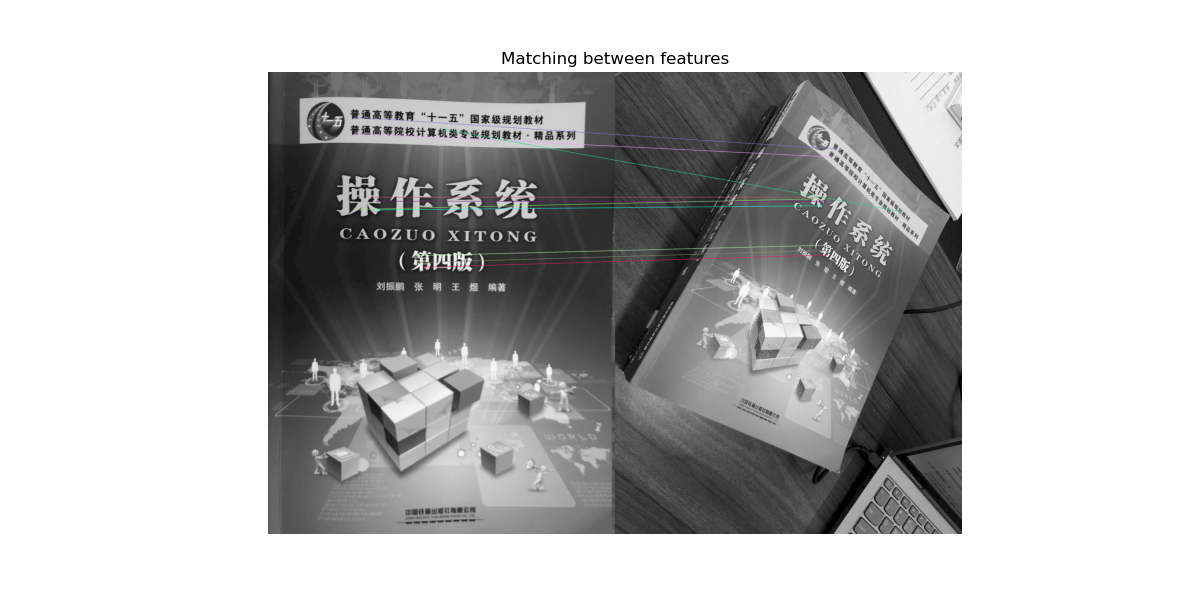
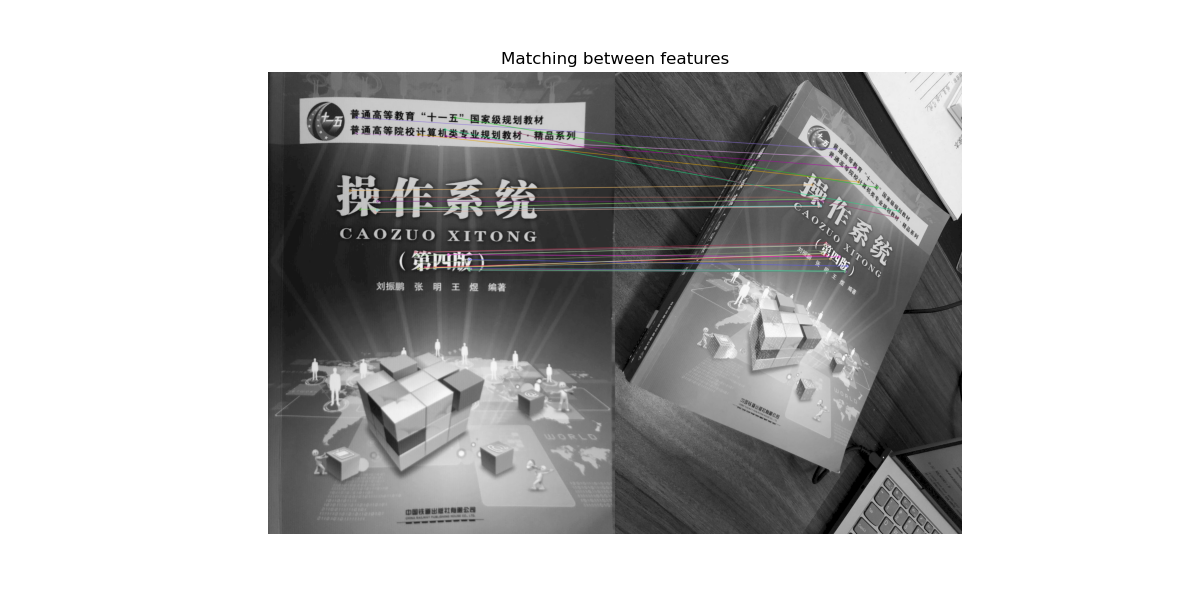
Site updated: 2022-03-01 10:05:49

Changed region(s): [[0.3392, 0.39, 0.7092, 0.48], [0.3392, 0.24, 0.7092, 0.36], [0.37, 0.21, 0.4625, 0.24]]

diff --git a/2022/02/23/AR技术分析报告/index.html b/2022/02/23/AR技术分析报告/index.html
@@ -84,11 +84,11 @@
 </blockquote>
 <span id="more"></span>
 <h2 id="类别"><a href="#类别" class="headerlink" title="类别"></a>类别</h2><h3 id="Vision-based-AR（基于计算机视觉的AR）"><a href="#Vision-based-AR（基于计算机视觉的AR）" class="headerlink" title="Vision based AR（基于计算机视觉的AR）"></a>Vision based AR（基于计算机视觉的AR）</h3><h4 id="Marker-Based-AR-（基于标定的AR）"><a href="#Marker-Based-AR-（基于标定的AR）" class="headerlink" title="Marker-Based AR （基于标定的AR）"></a>Marker-Based AR （基于标定的AR）</h4><p>如：</p>
-<p><img src="/home/pacaep/aepBlog/source/image/AR技术分析报告/6.png" alt=""></p>
+<p><img src="image/AR技术分析报告/6.png" style="zoom: 67%;" /></p>
 <h4 id="Marker-Less-AR（基于特征点的AR"><a href="#Marker-Less-AR（基于特征点的AR" class="headerlink" title="Marker-Less AR（基于特征点的AR)"></a>Marker-Less AR（基于特征点的AR)</h4><p>如：</p>
-<p><img src="/home/pacaep/aepBlog/source/image/AR技术分析报告/7.webp" alt=""></p>
+<p><img src="image/AR技术分析报告/7.webp" alt=""></p>
 <h3 id="LBS-based-AR（基于地理位置信息的AR）"><a href="#LBS-based-AR（基于地理位置信息的AR）" class="headerlink" title="LBS based AR（基于地理位置信息的AR）"></a>LBS based AR（基于地理位置信息的AR）</h3><p>如：</p>
-<p><img src="/home/pacaep/aepBlog/source/image/AR技术分析报告/8.png" alt=""></p>
+<p><img src="image/AR技术分析报告/8.png" alt=""></p>
 <blockquote>
 <p>本文将具体讲解和实验基于特征点的AR技术 </p>
 </blockquote>
@@ -97,10 +97,10 @@
 <ul>
 <li><p>iphone 8 手机：App Store 下载 Focus [+] # 手动对焦拍摄</p>
 </li>
-<li><p>计算机：python 和 conda</p>
+<li><p>计算机：vim，python和 conda</p>
 </li>
 <li><p>OpenCV 棋盘标定纸</p>
-<p><img src="/home/pacaep/aepBlog/source/image/AR技术分析报告/calibration_img/9.png" style="zoom:25%;" /></p>
+<p><img src="image/AR技术分析报告/calibration_img/9.png" style="zoom:25%;" /></p>
 </li>
 </ul>
 </li>
@@ -114,29 +114,201 @@
 </li>
 </ul>
 </li>
-<li><p><strong>相机标定</strong></p>
+<li><p><strong>相机标定原理</strong></p>
 <p>从世界坐标系转换到图像坐标系，求投影矩阵 $P$ 的过程</p>
 <p>分为两步</p>
 <ol>
 <li><p>从世界坐标系转换为相机坐标系，这一步是三维点到三维点的转换，包括 $R,t$ （相机外参）等参数</p>
-<p><img src="/home/pacaep/aepBlog/source/image/AR技术分析报告/5.png" alt="5"></p>
+<p><img src="image/AR技术分析报告/5.png" alt="5"></p>
 <script type="math/tex; mode=display">
 \widetilde{X}_{c a m}=R(\widetilde{X}-\widetilde{C})</script></li>
 </ol>
-<p>$ \widetilde{X} $ 为 $X$ 在世界坐标中的位置<br>$ R $ 为旋转矩阵<br>$ \widetilde{C} $ 为相机原点 $C$ 所在世界坐标中的位置<br>$ \widetilde{X}_{c a m} $ 为 $ X $ 在相机坐标系中的位置</p>
+<ul>
+<li>$ \widetilde{X} $ 为 $X$ 在世界坐标中的位置</li>
+<li>$ R $ 为旋转矩阵</li>
+<li>$ \widetilde{C} $ 为相机原点 $C$ 所在世界坐标中的位置</li>
+<li>$ \widetilde{X}_{c a m} $ 为 $ X $ 在相机坐标系中的位置</li>
+</ul>
 <ol>
-<li><p>从相机坐标系转换为图像坐标系，这一步是三维点到二维点的转换，包括 $K$（相机内参）等参数；</p>
-<script type="math/tex; mode=display">
-P = K[R | t]</script></li>
+<li><p>从相机坐标系转换为图像坐标系，这一步是三维点到二维点的转换，包括 $K$（相机内参）等参数</p>
+<p><img src="image/AR技术分析报告/9.png" alt=""></p>
+</li>
 </ol>
 </li>
-<li><p><strong>识别数据</strong></p>
+</ol>
+<ul>
+<li><p>$C$为相机的中心点，也是相机坐标系的中心点</p>
 </li>
-<li><p><strong>单应性</strong></p>
+<li><p>$Z$为相机的主轴</p>
 </li>
-<li><p><strong>姿势估计</strong></p>
+<li><p>$p$为相机的像平面，也就是图片坐标系所在的二维平面</p>
 </li>
-<li><p><strong>展示</strong></p>
+<li><p>$C$ 点到 $p$点的距离$f$，为相机的焦距</p>
+<p> 可得到</p>
+<script type="math/tex; mode=display">
+ \begin{aligned}
+ x &=f X / Z \\
+ y &=f Y / Z \\
+ (X, \quad Y, \quad Z) & \mapsto(f X / Z, \quad f Y / Z)
+ \end{aligned}</script><p> 由图可知偏移量</p>
+<p> <img src="image/AR技术分析报告/10.png" style="zoom:67%;" /></p>
+<script type="math/tex; mode=display">
+ (X, \quad Y, \quad Z) \mapsto\left(f X / Z+p_{x}, \quad f Y / Z+p_{y}\right)</script><p> 矩阵形式为</p>
+<script type="math/tex; mode=display">
+ \left(\begin{array}{c}
+ X \\
+ Y \\
+ Z \\
+ 1
+ \end{array}\right) \mapsto\left(\begin{array}{c}
+ f X+Z p_{x} \\
+ f Y+Z p_{y} \\
+ Z
+ \end{array}\right)=\left[\begin{array}{ccc}
+ f & p_{x} & 0 \\
+ & f & p_{y} & 0 \\
+ & & 1 & 0
+ \end{array}\right]\left(\begin{array}{c}
+ X \\
+ Y \\
+ Z \\
+ 1
+ \end{array}\right)</script><p> 化简得</p>
+<script type="math/tex; mode=display">
+ \left(\begin{array}{c}
+ f X+Z p_{x} \\
+ f Y+Z p_{y} \\
+ Z
+ \end{array}\right)=\left[\begin{array}{cc}
+ f & p_{x} \\
+ & f & p_{y} \\
+ & & 1
+ \end{array}\right]\left[\begin{array}{llll}
+ 1 & & & 0 \\
+ & 1 & & 0 \\
+ & & 1 & 0
+ \end{array}\right]\left(\begin{array}{l}
+ X \\
+ Y \\
+ Z \\
+ 1
+ \end{array}\right)</script><p> 则</p>
+<script type="math/tex; mode=display">
+ K=\left[\begin{array}{ccc}
+ f & & p_{x} \\
+ & f & p_{y} \\
+ & & 1
+ \end{array}\right]</script><p> 设旋转矩阵 $R$ 为单位矩阵 $I$，平移矩阵 $t$ 为0</p>
+<script type="math/tex; mode=display">
+ P &= K[R | t] \\
+   &= K[I | 0]</script><blockquote>
+<p>畸变参数本例未考虑到，不作讨论</p>
+</blockquote>
+</li>
+</ul>
+<ol>
+<li><p><strong>获得相机标定矩阵</strong></p>
+<ol>
+<li><p>手动对焦，固定焦距，拍摄各个方面的标定板</p>
+<p><img src="image/AR技术分析报告/11.png" style="zoom: 25%;" /></p>
+</li>
+<li><p>具体过程</p>
+<ul>
+<li>提取角点 本例使用的标定板来自 <a target="_blank" rel="noopener" href="https://calib.io/pages/camera-calibration-pattern-generator">calib</a>  有13 * 9 个角点</li>
+<li>提取亚像素角点 提高精度</li>
+<li>角点绘制</li>
+<li>标定</li>
+</ul>
+</li>
+<li><p>结果</p>
+<p><img src="image/AR技术分析报告/13.png" style="zoom:25%;" /></p>
+<p>得到 iphone 8 的相机标定矩阵为 (代码见camera_calibration.py)</p>
+<p>```matlab<br>[[1.09358481e+03 0.00000000e+00 5.12119524e+02]<br> [0.00000000e+00 1.08983166e+03 6.61345525e+02]<br> [0.00000000e+00 0.00000000e+00 1.00000000e+00]]</p>
+</li>
+</ol>
+</li>
+</ol>
+<ol>
+<li><p><strong>特征处理</strong></p>
+<ol>
+<li><p>特征检测</p>
+<p>使用ORB法进行特征检测，ORB基于FAST算法，FAST算法的原理如下</p>
+<p><img src="image/AR技术分析报告/12.png" alt=""></p>
+<p>任选图像中的一点 $P$，以该点为圆形，$r$为半径确定一个圆，在圆上均匀取$m$个像素点，设定一个阈值$t$，如果$m$个像素点中，有连续$N$个像素点的大小均大于或小于$t$，则这个点就是角点。但是在进行FAST进行角点检测时，边缘位置的部分易混淆，针对这种情况，ORB算法通过增加图像金字塔和计算角度的方法，用Harris角点检测器把$N$个关键点进行等级排序，使用者可提取前n个自己需要的点。不同的是，ORB在进行特征点匹配时，检测出的角点需要满足尺度不变形和旋转不变性。</p>
+<ul>
+<li><p>尺度不变形</p>
+<p>通过对初始图像的按1/2的比例不断下采样(即按1/2的比例不断缩放)，得到一系列图像，形成图像金字塔。对每层图像，进行FAST角点检测</p>
+</li>
+<li><p>旋转不变形</p>
+<p>采用灰度质心法进行计算每个特征点的主方向</p>
+<script type="math/tex; mode=display">
+\mathrm{m}_{p q}=\sum_{x, y} x^{p} y^{q} I(x, y)</script><p>其中$x,y$分别表示像素点周围圆上所选取点的横坐标和纵坐标，$I(x,y)$表示灰度值大小，$p,q$表示指数，角度计算的方法如下</p>
+<script type="math/tex; mode=display">
+\theta=\operatorname{atan} 2(\mathrm{m_{01}}, \mathrm{m_{10}})</script></li>
+</ul>
+</li>
+<li><p>特征描述</p>
+<p>ORB法采用BRIEF描述子计算算法实现，BRIEF算法可分为两步</p>
+<ul>
+<li><p>特征点大小的对比</p>
+<p>以特征点为中心，取邻域窗口，在窗口上选择两个点p(x)和p(y)，比较两个点像素值的大小</p>
+<script type="math/tex; mode=display">
+\tau(p ; x, y):=\left\{\begin{array}{cc}
+1 & if\quad p(x)<p(y) \\
+0 & \text { otherwise }
+\end{array}\right.</script></li>
+<li><p>重复第一步进行像素值大小的比较，形成二进制编码</p>
+</li>
+</ul>
+<p>OBR算法对BRIEF有两种改变，分别为 steer BRIEF 和 rBRIEF</p>
+<ul>
+<li><p>steer BRIEF具备旋转不变形的特征，已知 $/theta$，将该点周围的点旋转 $/theta$ 度，得到新的点对</p>
+<script type="math/tex; mode=display">
+D_{\theta}=R_{\theta} D</script><p>$R$ 为旋转矩阵<br>旋转后，在新的位置上比较像素值的大小，得到描述子</p>
+</li>
+<li><p>rBRIEF算法通过改变描述子的计算方法，进一步减弱同一图像中特征点的描述子的相关性，对每个角点，考虑其 $31X31$ 的邻域，使用领域中每个点周围的 $5X5$ 的邻域的像素值平均值作为该点的像素值，进而比较点对的大小。上面计算可得到 $(31-5+1)*(31-5+1)=729$ 个子窗口，提取点对的方法有 $729X728=265356$ 种，通过在这 $265356$ 中方法中选取 $256$ 种取法，形成描述子</p>
+</li>
+</ul>
+<p>结果</p>
+<p>  <img src="image/AR技术分析报告/1.png" style="zoom:67%;" /></p>
+</li>
+</ol>
+</li>
+</ol>
+<ol>
+<li><p>特征匹配</p>
+<p>本例使用 Brute-Force Matcher 进行特征匹配，也就是暴力匹配</p>
+<p>结果</p>
+<p><img src="image/AR技术分析报告/2.png" style="zoom:67%;" /></p>
+</li>
+</ol>
+<ol>
+<li><p><strong>映射</strong></p>
+<p>将参考图像表面的平面的点映射到用例图像的平面上，也就是单应性变换，单应性变换是将一个平面（齐次坐标）中的点映射到另一个平面的二维投影变换</p>
+<script type="math/tex; mode=display">
+\left[\begin{array}{l}
+x^{\prime} \\
+y^{\prime} \\
+z^{\prime}
+\end{array}\right]=\left[\begin{array}{lll}
+h_{1} & h_{2} & h_{3} \\
+h_{4} & h_{5} & h_{6} \\
+h_{7} & h_{8} & h_{9}
+\end{array}\right]\left[\begin{array}{l}
+x \\
+y \\
+z
+\end{array}\right]</script></li>
+</ol>
+<p>   从两个图像中传递点集，它将找到该对象的透视变换，至少需要四个正确的点才能找到转换，但两幅图像之间的单应性变换包含不适合的点。会导致匹配时出现错误，影响结果，使用 RANSAC 迭代法验证拟合</p>
+<p>   结果</p>
+<p>   <img src="image/AR技术分析报告/3.png" style="zoom:67%;" /></p>
+<ol>
+<li><p><strong>3D 绘制</strong></p>
+<p>使用 <a target="_blank" rel="noopener" href="https://github.com/yarolig/OBJFileLoader">yarolig的OBJFileLoader</a> 加载 3D obj 模型 (代码见 objloader_simple.py)</p>
+</li>
+<li><p>结果</p>
+<p><img src="image/AR技术分析报告/4.png" alt=""></p>
 </li>
 </ol>
 <details class="custom-block details" style="display: block; position: relative; border-radius: 2px; margin: 1.6em 0px; padding: 1.6em; background-color: rgb(238, 238, 238); color: rgb(44, 62, 80); font-family: -apple-system, BlinkMacSystemFont, &quot;Segoe UI&quot;, Roboto, Oxygen, Ubuntu, Cantarell, &quot;Fira Sans&quot;, &quot;Droid Sans&quot;, &quot;Helvetica Neue&quot;, sans-serif; font-size: 16px; font-style: normal; font-variant-ligatures: normal; font-variant-caps: normal; font-weight: 400; letter-spacing: normal; orphans: 2; text-align: start; text-indent: 0px; text-transform: none; white-space: normal; widows: 2; word-spacing: 0px; -webkit-text-stroke-width: 0px; text-decoration-thickness: initial; text-decoration-style: initial; text-decoration-color: initial;"><summary style="outline: none; cursor: pointer;">ar_python_opencv.py</summary><pre><code class="python">
@@ -175,7 +347,7 @@ plt.title('Source Image Features')
 plt.tight_layout()
 plt.show()
 
-MIN_MATCHES = 10
+MIN_MATCHES = 30
 bf = cv2.BFMatcher(cv2.NORM_HAMMING, crossCheck = True)
 referenceImagePts, referenceImageDsc = orb.detectAndCompute(referenceImage, None)
 sourceImagePts, sourceImageDsc = orb.detectAndCompute(sourceImage, None)
@@ -390,7 +562,7 @@ class OBJ:
     </div>
     <footer class="article-footer">
       
-<ul class="article-tag-list" itemprop="keywords"><li class="article-tag-list-item"><a class="article-tag-list-link" href="/tags/%E5%9B%BE%E5%83%8F%E5%A4%84%E7%90%86/" rel="tag">图像处理</a></li></ul>
+<ul class="article-tag-list" itemprop="keywords"><li class="article-tag-list-item"><a class="article-tag-list-link" href="/tags/opencv/" rel="tag">opencv</a></li></ul>
 
       
 	<div style="text-align:center;color: #ccc;font-size:14px;">------------- 本文结束&nbsp;<i class="fe fe-smile"></i>&nbsp;感谢您的阅读 -------------</div>

diff --git a/tags/opencv/index.html b/tags/opencv/index.html
@@ -8,7 +8,7 @@
   
   
   <title>
-    Tag: 图像处理 |
+    Tag: opencv |
     
     aeeeeeep personal blog
   </title>
@@ -37,7 +37,7 @@
     <section class="outer">
   <article class="articles">
     
-    <h1 class="page-type-title">#&nbsp图像处理</h1>
+    <h1 class="page-type-title">#&nbspopencv</h1>
     
   
   
@@ -69,7 +69,7 @@
     
     
     
-<ul class="article-tag-list" itemprop="keywords"><li class="article-tag-list-item"><a class="article-tag-list-link" href="/tags/%E5%9B%BE%E5%83%8F%E5%A4%84%E7%90%86/" rel="tag">图像处理</a></li></ul>
+<ul class="article-tag-list" itemprop="keywords"><li class="article-tag-list-item"><a class="article-tag-list-link" href="/tags/opencv/" rel="tag">opencv</a></li></ul>
 
     
   </div>

diff --git a/index.html b/index.html
@@ -261,7 +261,7 @@
     </div>
     <footer class="article-footer">
       
-<ul class="article-tag-list" itemprop="keywords"><li class="article-tag-list-item"><a class="article-tag-list-link" href="/tags/%E5%9B%BE%E5%83%8F%E5%A4%84%E7%90%86/" rel="tag">图像处理</a></li></ul>
+<ul class="article-tag-list" itemprop="keywords"><li class="article-tag-list-item"><a class="article-tag-list-link" href="/tags/opencv/" rel="tag">opencv</a></li></ul>
 
       
 
